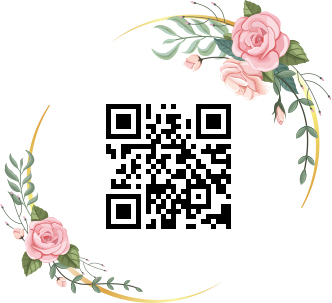
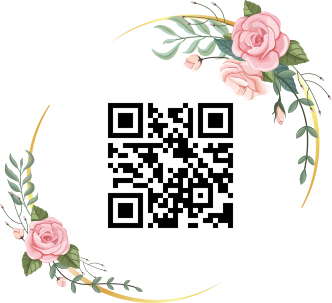
20200729_change QR code

Changed region(s): [[0.3012, 0.3267, 0.7229, 0.7723]]

diff --git a/thankyounext.html b/thankyounext.html
@@ -714,7 +714,7 @@ div{
             <p class="animate__animated animate__flash animate__infinite"
                 style="font-size:25px;line-height:36px;letter-spacing:4px;color:#859f84;font-weight: bold; position: absolute;top: 16%;left: 11%;">
                 立即掃描加入</p>
-            <img src="images/QR code.jpg" alt="">
+            <img src="images/QR code_next.jpg" alt="">
             <p style="font-size:25px;line-height:36px;letter-spacing:4px; position: absolute;right: 11%;bottom: 28%;">
                 ID: @fhl1857j</p>
             <p class="animate__animated animate__heartBeat animate__infinite "
@@ -724,7 +724,7 @@ div{
         <div class="join_btn SP">
             <p style="font-size:32px;line-height:36px;margin:4% 0;">VIAGE官方 <span
                     style="color:#4CB233;font-weight: bold;">LINE@</span></p>
-            <a href="https://bit.ly/3fwkQmj" target="blank"><img src="images/join_btn.jpg" title="" style="width: 60%;"
+            <a href="https://bit.ly/3063BCV" target="blank"><img src="images/join_btn.jpg" title="" style="width: 60%;"
                     class="animate__animated animate__heartBeat animate__infinite "></a>
             <p class="animate__animated animate__flash animate__infinite"
                 style="font-size:24px;line-height:36px;color:#895c91;font-family: 'Noto Serif TC', serif;font-weight: bold;">

diff --git a/thankyou.html b/thankyou.html
@@ -718,7 +718,7 @@ div{
         <div class="join_btn SP">
             <p style="font-size:32px;line-height:36px;margin:4% 0;">VIAGE官方 <span
                     style="color:#4CB233;font-weight: bold;">LINE@</span></p>
-            <a href="https://bit.ly/3fwkQmj" target="blank"><img src="images/join_btn.jpg" title=""
+            <a href="https://bit.ly/2CX2jl0" target="blank"><img src="images/join_btn.jpg" title=""
                     style="width: 60%;" class="animate__animated animate__heartBeat animate__infinite "></a>
             <p class="animate__animated animate__flash animate__infinite"
                 style="font-size:24px;line-height:36px;color:#895c91;font-family: 'Noto Serif TC', serif;font-weight: bold;">
